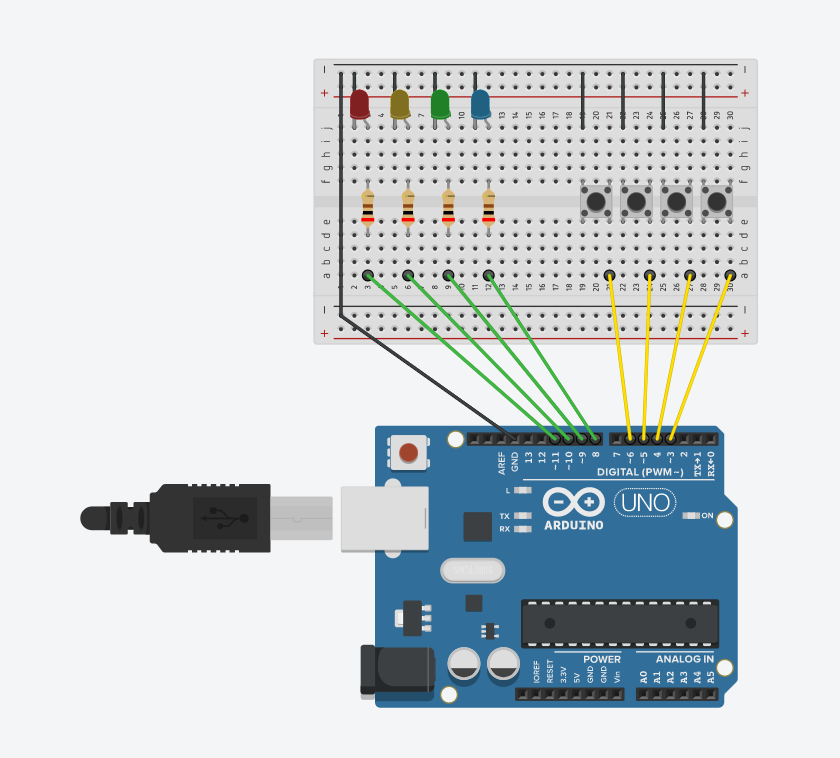
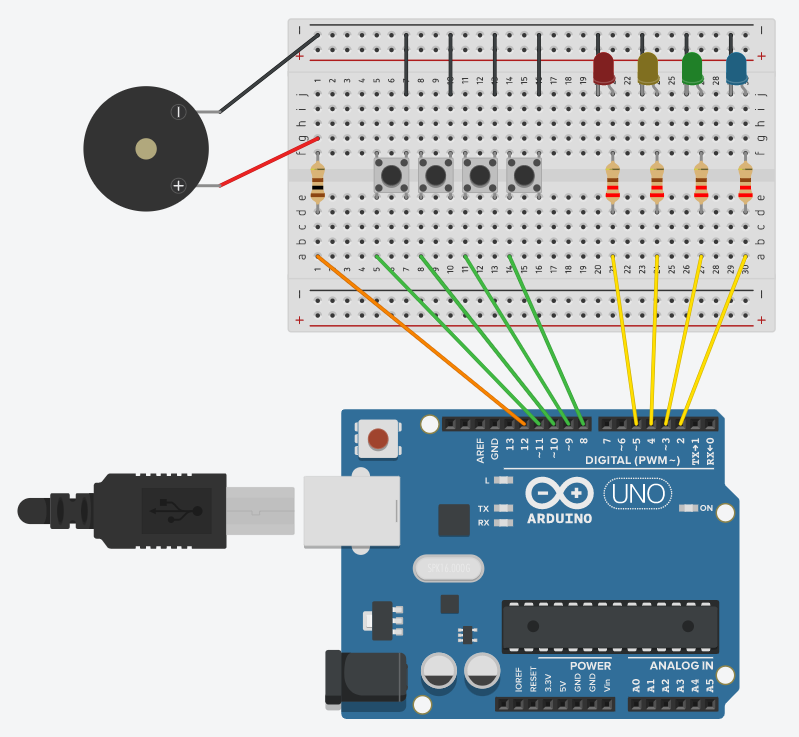
Updated README, schematic, BOM and breadboard layout to include speaker

diff --git a/README.md b/README.md
@@ -49,6 +49,8 @@ From there you will need to build the hardware! Follow the breadboard layout bel
 |S1, S2, S3, S4|4       | Pushbutton    |
 |U1            |1       | Arduino Uno R3|
 |R1, R2, R3, R4|4       |220 Ω Resistor |
+|R5            |1       |100 Ω Resistor |
+|PIEZO1        |1       |Piezo          |
 
 ## License
 
